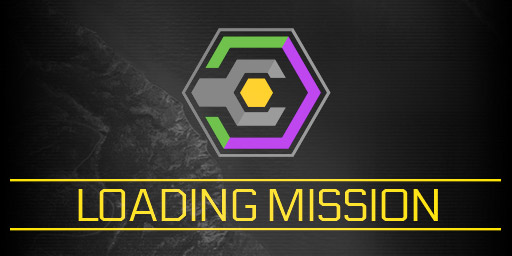
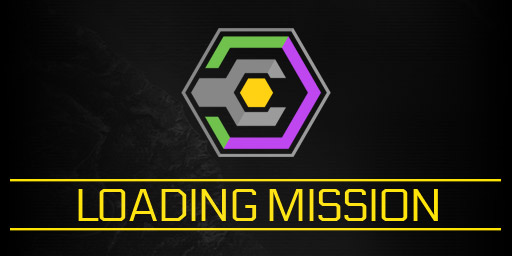
(003813) Plugin improvements, Team Roster fix
CHANGELOG:
- Improved plugin system to account for init and regular functions.
- Changed the loading screen yet again.
- Fixed the Team Roster not working.

diff --git a/framework/plugins/respawn_system/Functions.cpp b/framework/plugins/respawn_system/Functions.cpp
@@ -1,10 +1,15 @@
 class BRM_RespawnSystem
 {
-	class Functions {
+
+	class init {
 		file = "framework\plugins\respawn_system\functions";
 		class preInit {preInit = 1;};
 		class setParams {postInit = 1;};
 		class postinit {postInit = 1;};
+	};
+	
+	class Functions {
+		file = "framework\plugins\respawn_system\functions";
 		class removeFromMission {};
 		class onRespawn {};
 		class getLives {};

diff --git a/framework/plugins/chair_plugin/Functions.cpp b/framework/plugins/chair_plugin/Functions.cpp
@@ -1,9 +1,12 @@
 class BRM_ChairPlugin
 {
-	class Functions {
+	class init {
 		file = "framework\plugins\chair_plugin\functions";
 		class preInit {preInit = 1;};
-		class postInit {postInit = 1;};
+		class postInit {postInit = 1;};		
+	};
+	class Functions {
+		file = "framework\plugins\chair_plugin\functions";
 		class initChair {};
 		class chairSitDown {};
 		class chairStandUp {};

diff --git a/framework/plugins/dac_plugin/Functions.cpp b/framework/plugins/dac_plugin/Functions.cpp
@@ -1,10 +1,14 @@
 class BRM_DAC
 {
-	class Functions {
+
+	class init {
 		file = "framework\plugins\dac_plugin\functions";
 		class preinit {preInit = 1;};
 		class postinit {postInit = 1;};
 		class setParams {postInit = 1;};
+	};
+	class Functions {
+		file = "framework\plugins\dac_plugin\functions";
 		class new {};
 		class createDACCamp {};
 		class createDACZone {};

diff --git a/framework/plugins/blank_plugin/Functions.cpp b/framework/plugins/blank_plugin/Functions.cpp
@@ -1,9 +1,13 @@
 class BRM_BlankPlugin
 {
-	class Functions {
+
+	class init {
 		file = "framework\plugins\blank_plugin\functions";
 		class preInit {preInit = 1;};	
 		class setParams {postInit = 1;};
-		class postInit {postInit = 1;};			
+		class postInit {postInit = 1;};		
+	};
+	class Functions {
+		file = "framework\plugins\blank_plugin\functions";		
 	};
 }; 

diff --git a/framework/plugins/civilian_casualty_cap/Functions.cpp b/framework/plugins/civilian_casualty_cap/Functions.cpp
@@ -1,9 +1,12 @@
 class BRM_CivilianCasualtyCap
 {
-	class Functions {
+	class init {
 		file = "framework\plugins\civilian_casualty_cap\functions";
 		class preinit {preInit = 1;};
 		class setParams {postInit = 1;};	
 		class postinit {postInit = 1;};
+	};
+	class Functions {
+		file = "framework\plugins\civilian_casualty_cap\functions";
 	};
 }; 

diff --git a/framework/plugins/sync_status/Functions.cpp b/framework/plugins/sync_status/Functions.cpp
@@ -1,9 +1,12 @@
 class BRM_SyncStatus
 {
-	class Functions {
+	class init {
 		file = "framework\plugins\sync_status\functions";
 		class preinit {preInit = 1;};
 		class postinit {postInit = 1;};
+	};
+	class Functions {
+		file = "framework\plugins\sync_status\functions";
 		class postStatus {};
 		class setStatus {};
 		class moveToVehicle {};

diff --git a/framework/plugins/agm_plugin/Functions.cpp b/framework/plugins/agm_plugin/Functions.cpp
@@ -1,9 +1,12 @@
 class BRM_AGM
 {
-	class Functions {
+	class init {
 		file = "framework\plugins\agm_plugin\functions";
 		class setParams {postInit = 1;};	
-		class postinit {postInit = 1;};		
+		class postinit {postInit = 1;};	
+	};
+	class Functions {
+		file = "framework\plugins\agm_plugin\functions";
 		class AGM_RevivePlayer {};
 	};
 }; 

diff --git a/framework/plugins/cssa3_spectator/Functions.cpp b/framework/plugins/cssa3_spectator/Functions.cpp
@@ -1,8 +1,11 @@
 class CSSA3
 {
+	class init {
+		file = "framework\plugins\cssa3_spectator\functions";
+		class postinit {postInit = 1;};	
+	};
 	class Functions {
 		file = "framework\plugins\cssa3_spectator\functions";
-		class postinit {postInit = 1;};		
 		class classExists {};
 		class draw3DHUD {};
 		class MainSpectateFunctions {};

diff --git a/framework/plugins/time_accel/Functions.cpp b/framework/plugins/time_accel/Functions.cpp
@@ -1,8 +1,11 @@
 class BRM_TimeAcceleration
 {
-	class Functions {
+	class init {
 		file = "framework\plugins\time_accel\functions";
 		class setParams {postInit = 1;};	
-		class postinit {postInit = 1;};		
+		class postinit {postInit = 1;};
+	};
+	class Functions {
+		file = "framework\plugins\time_accel\functions";
 	};
 }; 

diff --git a/framework/plugins/setup_zone/Functions.cpp b/framework/plugins/setup_zone/Functions.cpp
@@ -1,9 +1,12 @@
 class BRM_SetupZone
 {
-	class Functions {
+	class init {
 		file = "framework\plugins\setup_zone\functions";
 		class setParams {postInit = 1;};
 		class postinit {postInit = 1;};
+	};
+	class Functions {
+		file = "framework\plugins\setup_zone\functions";
 		class setupZone {};
 		class registerZone {};
 	};

diff --git a/framework/plugins/f_casualties_cap/Functions.cpp b/framework/plugins/f_casualties_cap/Functions.cpp
@@ -1,9 +1,12 @@
 class f_cas_cap
 {
-	class Functions {
+	class init {
 		file = "framework\plugins\f_casualties_cap\functions";
 		class setParams {postInit = 1;};
 		class postinit {postInit = 1;};
+	};
+	class Functions {
+		file = "framework\plugins\f_casualties_cap\functions";
 		class CasualtiesCapCheck {};
 	};
 };

diff --git a/framework/plugins/spawn_protection/Functions.cpp b/framework/plugins/spawn_protection/Functions.cpp
@@ -1,8 +1,11 @@
 class BRM_SpawnProtection
 {
-	class Functions {
+	class init {
 		file = "framework\plugins\spawn_protection\functions";
 		class setParams {postInit = 1;};	
 		class postinit {postInit = 1;};
+	};
+	class Functions {
+		file = "framework\plugins\spawn_protection\functions";
 	};
 }; 
